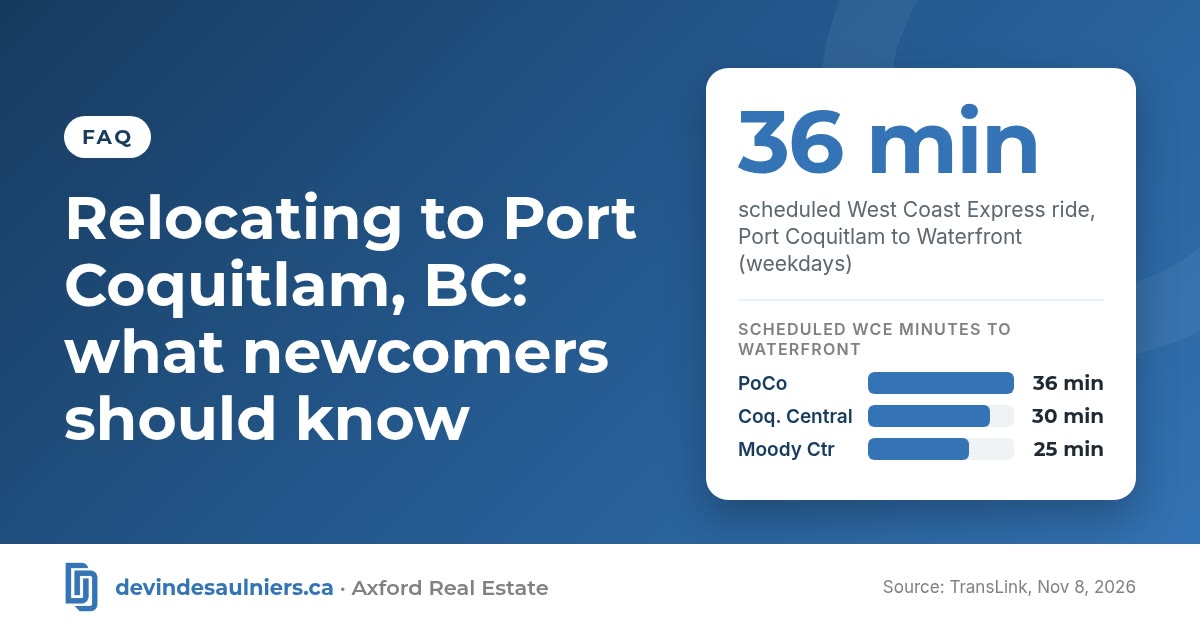
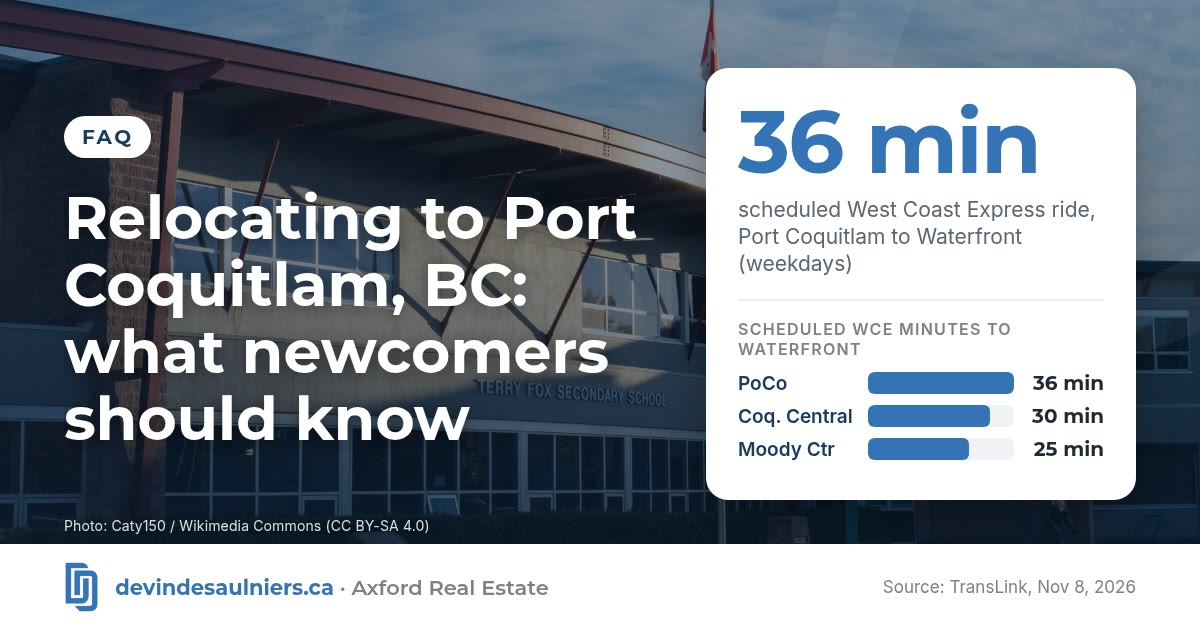
Blog: add a licensed Port Coquitlam photo to the Nov 8 relocation header
Replace the plain-blue header on Relocating to Port Coquitlam with the Terry Fox Secondary photograph already used on the SD43 school registration post (Caty150 / Wikimedia Commons, CC BY-SA 4.0), plus the on-page credit. Post text is unchanged.

diff --git a/blog/2026-11-08-relocating-to-port-coquitlam-bc-newcomers.html b/blog/2026-11-08-relocating-to-port-coquitlam-bc-newcomers.html
@@ -75,11 +75,11 @@
 <meta property="article:author" content="Devin Desaulniers">
 <meta property="og:image:width" content="1200">
 <meta property="og:image:height" content="630">
-<meta property="og:image:alt" content="Branded graphic for the blog post “Relocating to Port Coquitlam, BC: what newcomers should know” (FAQ). Key number: the scheduled weekday West Coast Express ride from Port Coquitlam to Waterfront Station is 36 minutes. Chart: scheduled minutes to Waterfront are 36 from Port Coquitlam, 30 from Coquitlam Central and 25 from Moody Centre. Source: TransLink.">
+<meta property="og:image:alt" content="Branded graphic over a photograph of Terry Fox Secondary School in Port Coquitlam for the blog post “Relocating to Port Coquitlam, BC: what newcomers should know” (FAQ). Key number: the scheduled weekday West Coast Express ride from Port Coquitlam to Waterfront Station is 36 minutes. Chart: scheduled minutes to Waterfront are 36 from Port Coquitlam, 30 from Coquitlam Central and 25 from Moody Centre. Source: TransLink. Background photo: Caty150 / Wikimedia Commons (CC BY-SA 4.0).">
 <meta name="twitter:title" content="Relocating to Port Coquitlam, BC: what newcomers should know">
 <meta name="twitter:description" content="Relocating to Port Coquitlam, BC: newcomer tips on the West Coast Express to downtown Vancouver, the City&#x27;s curbside carts and wildlife lock rules, Port Coquitlam Community Centre and Terry Fox Library, Hyde Creek, SD43 schools and the 25 km Traboulay PoCo Trail.">
 <meta name="twitter:image" content="https://devindesaulniers.ca/assets/img/blog/2026-11-08-relocating-to-port-coquitlam-bc-newcomers.jpg">
-<meta name="twitter:image:alt" content="Branded graphic for the blog post “Relocating to Port Coquitlam, BC: what newcomers should know” (FAQ). Key number: the scheduled weekday West Coast Express ride from Port Coquitlam to Waterfront Station is 36 minutes. Chart: scheduled minutes to Waterfront are 36 from Port Coquitlam, 30 from Coquitlam Central and 25 from Moody Centre. Source: TransLink.">
+<meta name="twitter:image:alt" content="Branded graphic over a photograph of Terry Fox Secondary School in Port Coquitlam for the blog post “Relocating to Port Coquitlam, BC: what newcomers should know” (FAQ). Key number: the scheduled weekday West Coast Express ride from Port Coquitlam to Waterfront Station is 36 minutes. Chart: scheduled minutes to Waterfront are 36 from Port Coquitlam, 30 from Coquitlam Central and 25 from Moody Centre. Source: TransLink. Background photo: Caty150 / Wikimedia Commons (CC BY-SA 4.0).">
 <link rel="alternate" type="application/rss+xml" title="Devin Desaulniers&#x27; Greater Vancouver Real Estate Blog" href="https://devindesaulniers.ca/blog/feed.xml">
 <script type="application/ld+json">
 {
@@ -200,7 +200,7 @@ gtag('config', 'AW-18574169872');
 <article class="section post">
   <div class="container narrow-wide">
     <div class="byline"><picture class="byline-photo"><source type="image/webp" srcset="../assets/img/devin-headshot-480.webp 480w" sizes="56px"><img src="../assets/img/devin-headshot-480.jpg" srcset="../assets/img/devin-headshot-480.jpg 480w" sizes="56px" width="480" height="600" alt="Devin Desaulniers" loading="lazy" decoding="async"></picture><div><strong>By Devin Desaulniers, Real Estate Associate, Axford Real Estate</strong><span>Published <time datetime="2026-11-08">November 8, 2026</time> · Greater Vancouver &amp; Tri-Cities, BC</span></div></div>
-    <figure class="post-image"><picture class=""><source type="image/webp" srcset="../assets/img/blog/2026-11-08-relocating-to-port-coquitlam-bc-newcomers.webp"><img src="../assets/img/blog/2026-11-08-relocating-to-port-coquitlam-bc-newcomers.jpg" width="1200" height="630" sizes="(max-width: 919px) 92vw, 840px" alt="Branded graphic for the blog post “Relocating to Port Coquitlam, BC: what newcomers should know” (FAQ). Key number: the scheduled weekday West Coast Express ride from Port Coquitlam to Waterfront Station is 36 minutes. Chart: scheduled minutes to Waterfront are 36 from Port Coquitlam, 30 from Coquitlam Central and 25 from Moody Centre. Source: TransLink." fetchpriority="high" decoding="async"></picture></figure>
+    <figure class="post-image"><picture class=""><source type="image/webp" srcset="../assets/img/blog/2026-11-08-relocating-to-port-coquitlam-bc-newcomers.webp"><img src="../assets/img/blog/2026-11-08-relocating-to-port-coquitlam-bc-newcomers.jpg" width="1200" height="630" sizes="(max-width: 919px) 92vw, 840px" alt="Branded graphic over a photograph of Terry Fox Secondary School in Port Coquitlam for the blog post “Relocating to Port Coquitlam, BC: what newcomers should know” (FAQ). Key number: the scheduled weekday West Coast Express ride from Port Coquitlam to Waterfront Station is 36 minutes. Chart: scheduled minutes to Waterfront are 36 from Port Coquitlam, 30 from Coquitlam Central and 25 from Moody Centre. Source: TransLink. Background photo: Caty150 / Wikimedia Commons (CC BY-SA 4.0)." fetchpriority="high" decoding="async"></picture><figcaption>Photo: <a href="https://commons.wikimedia.org/wiki/File:TerryFoxExterior.jpg" target="_blank" rel="noopener">Caty150 / Wikimedia Commons (CC BY-SA 4.0)</a></figcaption></figure>
     <div class="post-body">
 <p>Relocating to Port Coquitlam, BC puts you in one of the three Tri-Cities, BC communities, alongside Coquitlam and Port Moody, with a weekday commuter train straight to downtown Vancouver. It also comes with a few local habits, from how the West Coast Express works to how the City wants your garbage carts locked, that newcomers usually learn the hard way.</p>
 <p>I'm Devin Desaulniers, a Real Estate Associate with Axford Real Estate in Port Moody. I've been licensed since 2020, I'm a lifelong Coquitlam local and I've lived in Greater Vancouver for 28 years, so Port Coquitlam (most people just say PoCo) is right next door for me. My <a href="/port-coquitlam.html">Port Coquitlam area page</a> covers where the city sits and the neighbourhoods people ask about. This post is the practical side: what to sort out in your first weeks.</p>

diff --git a/_posts/2026-11-08-relocating-to-port-coquitlam-bc-newcomers.md b/_posts/2026-11-08-relocating-to-port-coquitlam-bc-newcomers.md
@@ -18,7 +18,11 @@ card_chart:
   - label: Moody Ctr
     value: 25
     display: "25 min"
-image_alt: "Branded graphic for the blog post “Relocating to Port Coquitlam, BC: what newcomers should know” (FAQ). Key number: the scheduled weekday West Coast Express ride from Port Coquitlam to Waterfront Station is 36 minutes. Chart: scheduled minutes to Waterfront are 36 from Port Coquitlam, 30 from Coquitlam Central and 25 from Moody Centre. Source: TransLink."
+card_photo: assets/img/blog/photos/terry-fox-secondary-port-coquitlam.jpg
+card_photo_position: "center 55%"
+card_photo_credit: "Caty150 / Wikimedia Commons (CC BY-SA 4.0)"
+card_photo_credit_url: https://commons.wikimedia.org/wiki/File:TerryFoxExterior.jpg
+image_alt: "Branded graphic over a photograph of Terry Fox Secondary School in Port Coquitlam for the blog post “Relocating to Port Coquitlam, BC: what newcomers should know” (FAQ). Key number: the scheduled weekday West Coast Express ride from Port Coquitlam to Waterfront Station is 36 minutes. Chart: scheduled minutes to Waterfront are 36 from Port Coquitlam, 30 from Coquitlam Central and 25 from Moody Centre. Source: TransLink. Background photo: Caty150 / Wikimedia Commons (CC BY-SA 4.0)."
 sources:
   - title: "West Coast Express Schedules"
     publisher: TransLink
